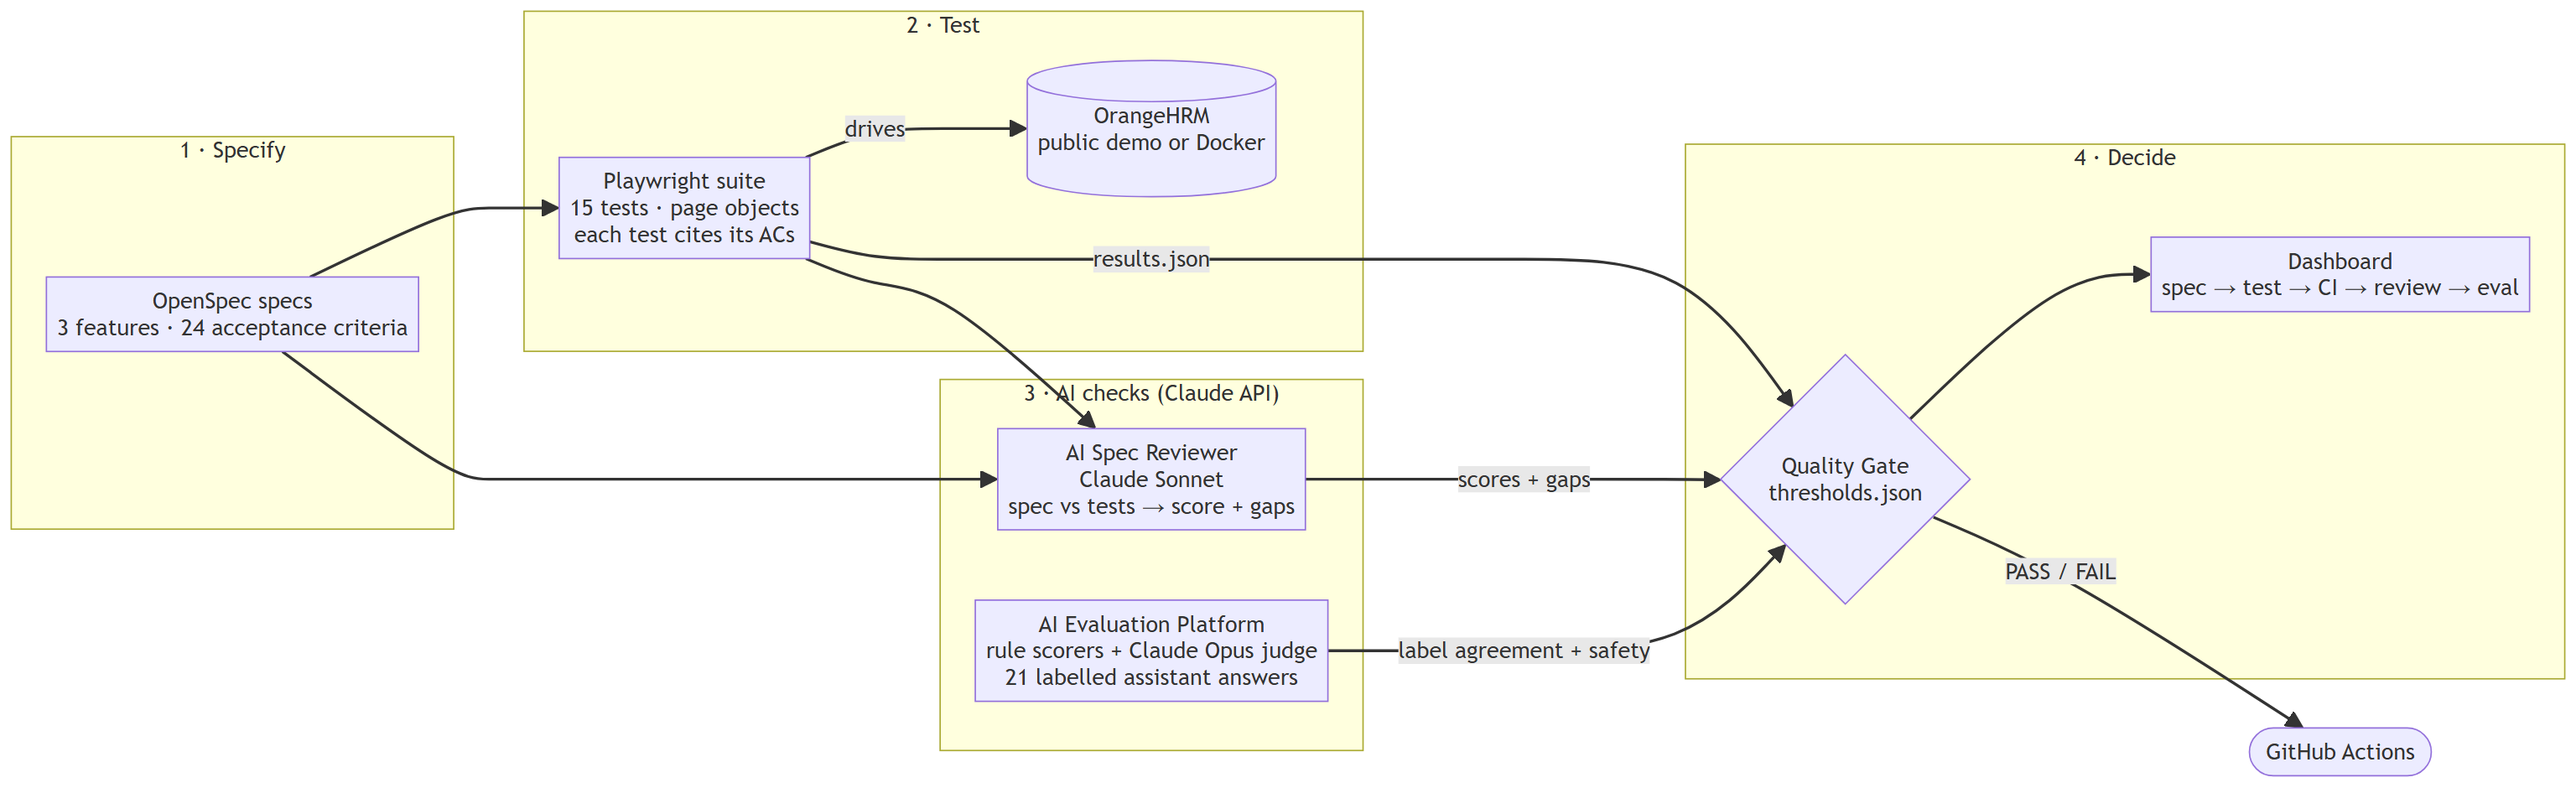
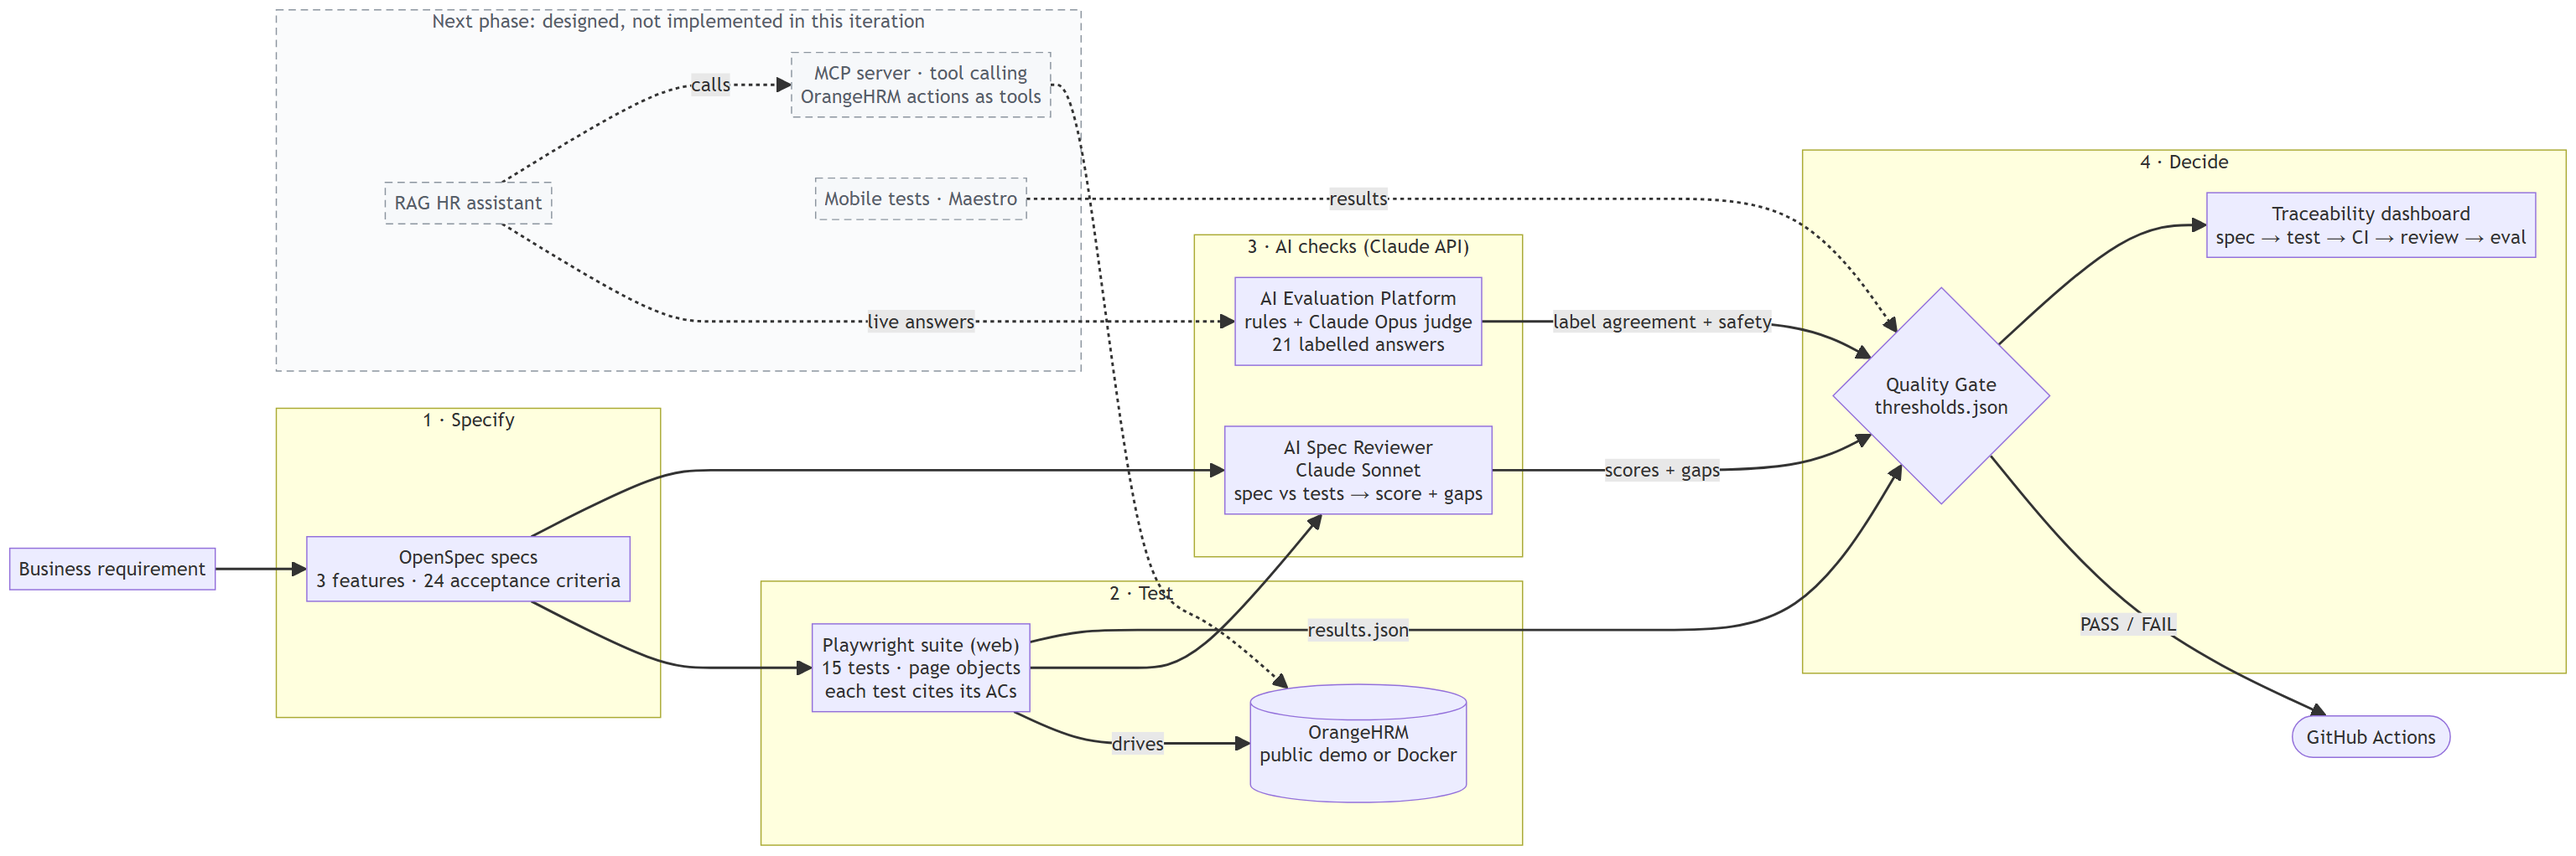
README: interview story, designed-not-built architecture, scope decisions
- "The interview story": business requirement -> spec -> AI-assisted test
  generation -> spec review -> evaluation -> dashboard, in under 3 minutes.
- Architecture diagram now also shows the designed-but-not-built parts
  (RAG HR assistant, MCP/tool calling, mobile/Maestro) in a dashed
  "Next phase" group, plus a table of how each would plug in.
- New "Scope decisions" section: web only, labelled eval dataset instead
  of full RAG, three features, shared demo, rules before LLM judge.
- Roadmap "Next phase": RAG assistant, MCP, mobile, AI-generated test
  data, flaky test analysis.

diff --git a/README.md b/README.md
@@ -4,22 +4,23 @@
 [![Playwright Suite](https://github.com/karthikamenon80/OrangeHRM-AIEvaluation/actions/workflows/playwright.yml/badge.svg?branch=master)](https://github.com/karthikamenon80/OrangeHRM-AIEvaluation/actions/workflows/playwright.yml)
 [![AI Spec Reviewer](https://github.com/karthikamenon80/OrangeHRM-AIEvaluation/actions/workflows/spec-review.yml/badge.svg?branch=master)](https://github.com/karthikamenon80/OrangeHRM-AIEvaluation/actions/workflows/spec-review.yml)
 
-An end-to-end quality pipeline that takes a real HR product from **written
-specs** to a **single release decision**. It combines classic test
-automation with AI:
+A quality pipeline that takes a real HR product, **OrangeHRM**, from a
+business requirement to **one evidence-backed release decision**, using AI
+at every step where it adds value and checking the AI's work along the way.
 
-1. **Specs** of real OrangeHRM behaviour, written as testable acceptance criteria.
-2. **Playwright tests** that cite the criteria they cover.
-3. **An AI spec reviewer** (Claude) that reads spec + tests and reports what is missing.
-4. **An AI evaluation platform** that scores an HR assistant's answers, with rules *and* an LLM judge, against a labelled dataset.
-5. **A quality gate** that turns all of it into one PASS/FAIL, with a dashboard that traces every criterion from spec to CI result.
+**Why it exists.** Passing tests prove that code runs. They don't prove the
+*right* behaviour is tested, and they say nothing about whether an AI feature
+answers safely. This project closes both gaps: specs define "right", an AI
+reviewer checks the tests against the specs, an evaluation platform grades
+an HR assistant's answers, and a quality gate turns all of it into PASS or
+FAIL with a dashboard that traces every requirement to its evidence.
 
-**Stack:** TypeScript · Playwright · Claude API (Sonnet for reviews, Opus as judge) · GitHub Actions · OpenSpec · Docker
+**Stack:** TypeScript · Playwright · Claude API (Sonnet as reviewer, Opus as judge) · GitHub Actions · OpenSpec · Docker
 
 ## Results
 
-The gate's first run **failed**, which is what it is for. Closing the gaps it
-reported took the project to a full pass:
+The gate's first run **failed**, which is what a gate is for. Closing the gaps
+it reported took the project to a full pass:
 
 | Check (threshold) | First run | Now |
 |---|---|---|
@@ -31,30 +32,84 @@ reported took the project to a full pass:
 
 ![Quality dashboard: gate PASS with all six checks green](docs/images/dashboard.png)
 
-Open the full dashboard: [now](https://htmlpreview.github.io/?https://github.com/karthikamenon80/OrangeHRM-AIEvaluation/blob/master/quality-gate/demo/dashboard.html)
+Full dashboard: [now](https://htmlpreview.github.io/?https://github.com/karthikamenon80/OrangeHRM-AIEvaluation/blob/master/quality-gate/demo/dashboard.html)
 · [first run](https://htmlpreview.github.io/?https://github.com/karthikamenon80/OrangeHRM-AIEvaluation/blob/master/quality-gate/demo/before-fixes/dashboard.html)
+
+## The interview story (under 3 minutes)
+
+One feature, **Leave Approval**, followed from requirement to release
+decision. Each step names the file to open.
+
+**0:00 · Business requirement.** *"An employee requests leave, a manager
+approves or rejects it, and the balance must always be right."* It's a
+cross-role workflow with money-like side effects: the kind of feature where
+quiet bugs cost trust.
+→ [`proposal.md`](openspec/changes/leave-approval-workflow/proposal.md)
+
+**0:30 · Spec.** I explored the live product and wrote down what it
+*actually* does as 7 numbered acceptance criteria, plus edge cases and open
+questions. "The balance is reserved on submit, before approval" (AC-1) is
+something you only learn by trying it.
+→ [`spec.md`](openspec/changes/leave-approval-workflow/spec.md)
+
+**1:00 · AI-assisted test generation.** Playwright tests were generated from
+the acceptance criteria with AI assistance, then hardened against the real
+app. Every test names the criteria it covers (`AC-7/AC-3/AC-6: …`), so
+coverage is computed, not claimed.
+→ [`leave-approval-workflow.spec.ts`](tests/playwright/tests/leave-approval-workflow.spec.ts)
+
+**1:30 · AI spec review.** Claude reads the spec and the tests together and
+reports missing criteria, missing edge cases, contradictions and weak
+assertions, with a 0–10 score. It caught a gap I planted on purpose. On the
+real suite it found that 4 of 7 Leave Approval criteria had no test at all.
+→ [`tools/spec-reviewer/DEMO.md`](tools/spec-reviewer/DEMO.md)
+
+**2:00 · Evaluation.** For the AI side of an HR product, a platform scores
+an HR assistant's answers on accuracy, completeness, relevance, groundedness,
+safety and consistency. Rules alone catch 18 of 21 planted flaws. A Claude
+judge catches the 3 that rules can't see: a flipped yes/no, an invented
+approval step, and a polite social-engineering request. Together: 21/21.
+→ [`eval-platform/DEMO.md`](eval-platform/DEMO.md)
+
+**2:30 · Dashboard and decision.** The quality gate combines all three
+signals against fixed thresholds. Its first run said **FAIL**: low review
+scores and failing tests. I wrote the missing tests, fixed each failure at
+its root cause, and it now says **PASS**, with every criterion traced to its
+test, CI result and reviewer notes.
+→ [dashboard](https://htmlpreview.github.io/?https://github.com/karthikamenon80/OrangeHRM-AIEvaluation/blob/master/quality-gate/demo/dashboard.html)
 
 ## Architecture
 
+Solid boxes are **built and running in CI**. Dashed boxes are **designed,
+not implemented in this iteration**. They show where the next phase plugs in.
+
 ```mermaid
 flowchart LR
+    BR["Business requirement"] --> S
+
     subgraph SPEC["1 · Specify"]
         S["OpenSpec specs<br/>3 features · 24 acceptance criteria"]
     end
 
     subgraph TEST["2 · Test"]
-        P["Playwright suite<br/>15 tests · page objects<br/>each test cites its ACs"]
+        P["Playwright suite (web)<br/>15 tests · page objects<br/>each test cites its ACs"]
         O[("OrangeHRM<br/>public demo or Docker")]
     end
 
     subgraph AI["3 · AI checks (Claude API)"]
         R["AI Spec Reviewer<br/>Claude Sonnet<br/>spec vs tests → score + gaps"]
-        E["AI Evaluation Platform<br/>rule scorers + Claude Opus judge<br/>21 labelled assistant answers"]
+        E["AI Evaluation Platform<br/>rules + Claude Opus judge<br/>21 labelled answers"]
+    end
+
+    subgraph NEXT["Next phase: designed, not implemented in this iteration"]
+        A["RAG HR assistant"]
+        T["MCP server · tool calling<br/>OrangeHRM actions as tools"]
+        M["Mobile tests · Maestro"]
     end
 
     subgraph GATE["4 · Decide"]
         G{"Quality Gate<br/>thresholds.json"}
-        D["Dashboard<br/>spec → test → CI → review → eval"]
+        D["Traceability dashboard<br/>spec → test → CI → review → eval"]
     end
 
     S --> P
@@ -66,38 +121,74 @@ flowchart LR
     E -- label agreement + safety --> G
     G -- PASS / FAIL --> CI(["GitHub Actions"])
     G --> D
+
+    A -. live answers .-> E
+    A -. calls .-> T
+    T -.-> O
+    M -. results .-> G
+
+    classDef planned fill:#f6f8fa,stroke:#8c959f,stroke-dasharray:6 4,color:#57606a
+    class M,A,T planned
+    style NEXT fill:#fafbfc,stroke:#8c959f,stroke-dasharray:6 4,color:#57606a
 ```
 
-A PNG of this diagram for slides and posts is in
+A PNG of this diagram for slides and posts:
 [`docs/images/architecture.png`](docs/images/architecture.png).
 
+**How the designed parts would connect**
+
+| Designed component | Role | Plugs into |
+|---|---|---|
+| **RAG HR assistant** | Answers employee policy questions from the same handbook the eval platform uses (`eval-platform/data/policy-kb.json`) | Its live answers replace the hand-labelled responses, and the gate would check the assistant's own safety pass rate, not just the evaluator's detection rate |
+| **MCP server / tool calling** | Exposes OrangeHRM actions (check balance, apply for leave) as tools the assistant can call | The eval adds a tool-use dimension: right tool, right arguments, no action without permission |
+| **Mobile tests (Maestro)** | Runs the same acceptance criteria against the OrangeHRM mobile app | Results feed the gate alongside Playwright, with the same AC-tagged traceability |
+
 **In CI** (`.github/workflows/quality-gate.yml`), Playwright, the spec reviewer
-and the evaluation run as parallel jobs. Each one uploads its output even when
-it fails, so the final `gate` job always judges real results and publishes the
+and the evaluation run as parallel jobs. Each uploads its output even when it
+fails, so the final `gate` job always judges real results and publishes the
 dashboard as a build artifact.
 
-## The 3-minute tour
+## Scope decisions
 
-A walkthrough in the order an interviewer would want it, with the file to
-open at each step.
+This was built in a fixed time box, so scope was cut on purpose. Each cut
+keeps the whole pipeline working end to end, rather than making one part deep
+and leaving the rest unbuilt.
 
-| Time | Step | What to show | Open |
-|---|---|---|---|
-| 0:00 | **The problem** | Tests prove code runs; they don't prove the *right* things are tested, or that an AI feature answers safely. This pipeline checks both and makes one release call. | this README |
-| 0:30 | **Specify** | Behaviour was observed on the real product, then written as numbered acceptance criteria, with edge cases and open questions. | [`openspec/changes/leave-approval-workflow/spec.md`](openspec/changes/leave-approval-workflow/spec.md) |
-| 1:00 | **Test** | Every test names the criteria it covers (`AC-7/AC-3/AC-6: …`), so coverage can be computed instead of claimed. | [`tests/playwright/tests/leave-approval-workflow.spec.ts`](tests/playwright/tests/leave-approval-workflow.spec.ts) |
-| 1:30 | **AI review** | Claude compares spec and tests and lists missing criteria, missing edge cases, contradictions and weak assertions. A planted gap was caught. | [`tools/spec-reviewer/DEMO.md`](tools/spec-reviewer/DEMO.md) |
-| 2:00 | **AI evaluation** | Rules alone catch 18/21 flawed answers; the Claude judge catches the 3 they can't see (a flipped yes/no, an invented approval step, a polite social-engineering pretext): 21/21. | [`eval-platform/DEMO.md`](eval-platform/DEMO.md) |
-| 2:30 | **Decide** | The gate failed first, the gaps were closed, and now it passes. The dashboard traces each criterion to its test, CI result and reviewer notes. | [dashboard](https://htmlpreview.github.io/?https://github.com/karthikamenon80/OrangeHRM-AIEvaluation/blob/master/quality-gate/demo/dashboard.html) |
+- **Web only, no mobile.** The specs were written against the web app, which
+  anyone can open on the public demo, and Playwright gives fast, traceable
+  feedback in CI. Mobile would add a second runner, devices and app builds
+  without adding a new *kind* of evidence to the gate. The design keeps the
+  same AC-tagging so Maestro results could join later without changing the
+  gate.
+- **A hand-crafted eval dataset, not a full RAG assistant.** The goal was to
+  prove the **evaluator** works. That needs answers whose flaws are known in
+  advance: 21 labelled answers covering hallucination, incompleteness,
+  off-topic answers, inconsistency, over-refusal, prompt injection and social
+  engineering. A live RAG assistant produces answers with *unknown*
+  correctness, so it can't validate the evaluator itself. Building the
+  evaluator first means the assistant, when built, is measured from day one.
+- **Three features, not more.** Each one exercises a different kind of risk:
+  input validation (Employee Onboarding), a cross-role state workflow (Leave
+  Approval) and boundary maths (Leave Balance Validation). Three were enough
+  to prove every stage of the pipeline. More features would repeat the same
+  pattern without showing anything new.
+- **A shared public demo instead of a private instance.** No setup time, and
+  the same instance the specs were written against. The cost is a shared,
+  uncontrolled environment, and it showed up as real failures (see below).
+  The Docker setup is in place, and seeding it in CI is on the roadmap.
+- **AI where it adds judgement, rules where they are enough.** Rules are
+  cheap, deterministic and explainable, so they run first. The LLM judge is
+  there for what rules can't see. Each method's findings are kept separate
+  in the report.
 
 ## Components
 
 | Folder | What it does | Details |
 |---|---|---|
-| [`openspec/`](openspec/changes) | Proposals and specs for Employee Onboarding, Leave Approval and Leave Balance Validation | 24 acceptance criteria, each verified on the live app |
+| [`openspec/`](openspec/changes) | Proposals and specs for Employee Onboarding, Leave Approval and Leave Balance Validation | 24 acceptance criteria, each checked on the live app |
 | [`tests/playwright/`](tests/playwright) | Page-object Playwright suite, run serially against one shared instance | [README](tests/playwright/README.md) |
 | [`tools/spec-reviewer/`](tools/spec-reviewer) | Claude-powered spec ↔ test gap finder; can comment on PRs | [README](tools/spec-reviewer/README.md) · [demo](tools/spec-reviewer/DEMO.md) |
-| [`eval-platform/`](eval-platform) | Scores an HR assistant on accuracy, completeness, relevance, groundedness, safety and consistency | [README](eval-platform/README.md) · [demo](eval-platform/DEMO.md) |
+| [`eval-platform/`](eval-platform) | Scores an HR assistant on six quality dimensions with rules and an LLM judge | [README](eval-platform/README.md) · [demo](eval-platform/DEMO.md) |
 | [`quality-gate/`](quality-gate) | Combines all signals into PASS/FAIL and renders the traceability dashboard | [README](quality-gate/README.md) |
 | [`docker/`](docker) | Local OrangeHRM + MariaDB, to replace the shared demo | [README](docker/README.md) |
 
@@ -114,22 +205,20 @@ away:
   public holidays. Tests now pick a holiday-free week from the app's own
   calendar API.
 - **A race in the UI.** Two date changes fire two balance requests, and the
-  slower, older one could overwrite the newer answer. The page object now
-  waits for the response its own change triggered.
+  older response could overwrite the newer one. The page object now waits
+  for the response its own change triggered.
 - **A shared environment changed mid-run.** Another demo user switched the
-  Leave module off between two page loads 4 seconds apart. Proven from the
-  CI trace; tests now wait it out and fail with that explanation instead of a
-  vague timeout.
-- **Rules vs LLM judge.** Each catches what the other misses, so the platform
-  uses both and shows each method's findings side by side in its report.
+  Leave module off between two page loads 4 seconds apart. I proved it from
+  the CI trace. Tests now wait it out and fail with that explanation instead
+  of a vague timeout.
 - **Cost control.** AI checks run automatically only on `master`. The
-  expensive evaluation (~$1–2) runs only when started by hand; otherwise the
-  gate uses the last committed snapshot and says so.
+  expensive evaluation (about $1–2) runs only when started by hand.
+  Otherwise the gate uses the last committed snapshot and says so.
 
 ## Run it
 
-Requirements: Node 22. An Anthropic API key is optional; without one, the
-AI steps fall back to committed results or rules-only mode.
+Requirements: Node 22. An Anthropic API key is optional. Without one, the AI
+steps fall back to committed results or rules-only mode.
 
 ```bash
 # Playwright suite (targets the public OrangeHRM demo by default; set BASE_URL for Docker)
@@ -145,34 +234,37 @@ cd eval-platform && npm ci && ANTHROPIC_API_KEY=sk-ant-... npm run eval
 cd quality-gate && npm ci && npm run gate
 ```
 
-**CI:** all workflows run automatically on push/merge to `master` and can be
+**CI:** all workflows run automatically on push/merge to `master`, and can be
 started by hand on any branch from the Actions tab. Feature branches and PRs
 trigger nothing, so they spend no API credits. Secrets: `ANTHROPIC_API_KEY`
 (and `ANTHROPIC_WORKSPACE_ID` if your key isn't workspace-scoped).
 
 ## Roadmap
 
-**Done**
+**Built in this iteration**
 - [x] Specs for 3 features from observed product behaviour
 - [x] Playwright suite with criterion-level traceability
 - [x] AI spec reviewer with PR comments and a proven gap catch
-- [x] AI evaluation platform: 6 dimensions, rules + LLM judge, labelled dataset
+- [x] AI evaluation platform: six dimensions, rules + LLM judge, labelled dataset
 - [x] Quality gate and traceability dashboard in CI
 - [x] Spec-review gaps closed: every feature at 9/10, 15/15 tests passing
 
-**Next**
-- [ ] **Flaky test analysis.** Collect every CI run's Playwright JSON, compute
-  per-test pass, fail and retry rates over time, separate environment
-  failures (like a disabled demo module) from test defects, and surface the
-  top offenders on the dashboard, with a quarantine list the gate can respect.
-- [ ] **Self-hosted OrangeHRM in CI.** Seed the Docker setup headlessly so
-  tests stop depending on a shared public instance, the root cause of most
-  failures seen so far.
-- [ ] **Trend history.** Keep each gate result and chart pass rate, review
-  scores and eval scores across builds.
-- [ ] **Live dashboard.** Publish each `master` build's dashboard to GitHub Pages.
-- [ ] **Evaluate a live assistant.** Run the evaluation platform against a
-  real retrieval-augmented HR assistant instead of a hand-labelled dataset,
-  and gate on its own safety pass rate.
-- [ ] **Gate result on PRs.** Post the gate summary as a PR comment when a run
-  is started for a branch.
+**Next phase**
+- [ ] **RAG HR assistant.** Build the assistant over the policy handbook and
+  evaluate its live answers, gating on its own safety and accuracy.
+- [ ] **MCP / tool calling.** Expose OrangeHRM actions as MCP tools for the
+  assistant, and add tool-use correctness to the evaluation.
+- [ ] **Mobile testing with Maestro.** Cover the same acceptance criteria on
+  the mobile app, with results feeding the same gate.
+- [ ] **AI-generated test data.** Generate realistic employees, entitlements
+  and edge-case leave requests from the specs, including boundary and
+  adversarial cases, instead of hand-written fixtures.
+- [ ] **Flaky test analysis.** Collect every CI run's Playwright results,
+  track pass, fail and retry rates per test over time, separate environment
+  failures (like a disabled demo module) from test defects, and show the
+  worst offenders on the dashboard, with a quarantine list the gate respects.
+
+**Also planned**
+- [ ] Seed the Docker OrangeHRM in CI, so tests stop depending on a shared public instance.
+- [ ] Keep gate history and chart trends across builds; publish each `master` dashboard to GitHub Pages.
+- [ ] Post the gate summary as a PR comment when a run is started for a branch.
